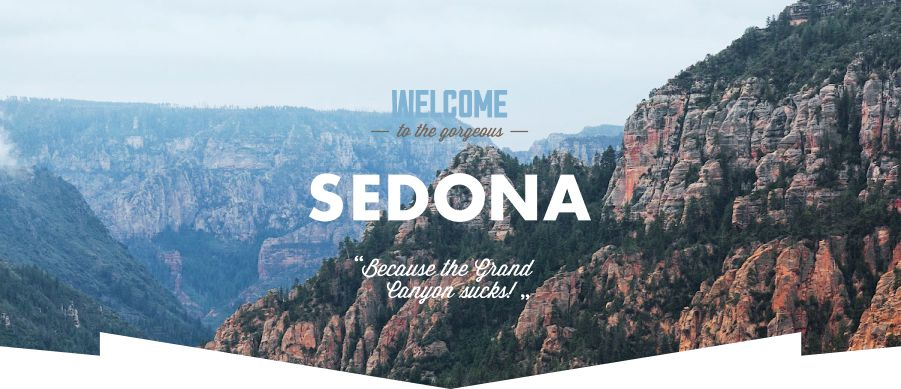
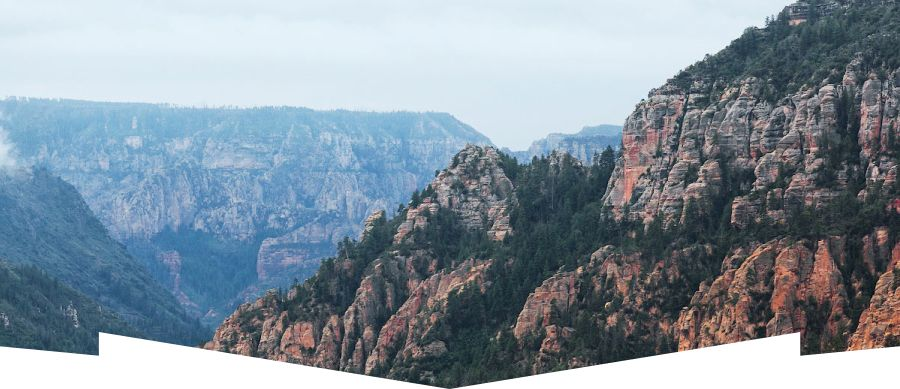
Правки

diff --git a/source/catalog.html b/source/catalog.html
@@ -10,6 +10,7 @@
   <link rel="apple-touch-icon" href="img/favicon/180.png">
   <link rel="manifest" href="manifest.webmanifest">
   <link rel="stylesheet" href="css/style.css">
+  <link rel="stylesheet" href="css/normalize.css">
 </head>
 
 <body class="page__body">
@@ -89,7 +90,7 @@
     <section class="video">
       <h2 class="video__title">Все еще сомневаетесь?</h2>
       <p class="video__intro">Смотрите видеопрезентацию и скорее за билетами, пока они не подорожали в очередной раз!</p>
-      <div>
+      <div class="video__section">
         <img class="video__video" src="img/video-presentation.jpg" width="320" height="201" alt="Кадр видеопрезентации с изображением горного моста">
         <div class="video__controls video-controls">
           <div class="video-controls__progress-line">
@@ -98,17 +99,17 @@
           <div class="video-controls__buttons">
             <button class="video-controls__button video-controls__button--replay" type="button">
               <span class="visually-hidden">Возпроизвести сначала</span>
-              <svg class="video-controls__icon" width="16" height="20" viewBox="0 0 16 20" xmlns="http://www.w3.org/2000/svg">
+              <svg class="video-controls__icon video-controls__icon--action" width="16" height="20" viewBox="0 0 16 20" xmlns="http://www.w3.org/2000/svg">
                 <path d="M8 4V0L3 5L8 10V6C11.3 6 14 8.7 14 12C14 15.3 11.3 18 8 18C4.7 18 2 15.3 2 12H0C0 16.4 3.6 20 8 20C12.4 20 16 16.4 16 12C16 7.6 12.4 4 8 4Z"/>
               </svg>
             </button>
             <button class="video-controls__button" type="button">
               <span class="visually-hidden">Субтитры</span>
-              <svg class="video-controls__icon" width="32" height="20" viewBox="0 0 32 20" xmlns="http://www.w3.org/2000/svg">
+              <svg class="video-controls__icon video-controls__icon--action" width="32" height="20" viewBox="0 0 32 20" xmlns="http://www.w3.org/2000/svg">
                 <path d="M29 0H3C1.3 0 0 1.3 0 3V17C0 18.7 1.3 20 3 20H29C30.7 20 32 18.7 32 17V3C32 1.3 30.7 0 29 0ZM14.4 15.9C13.9 16 13.3 16 12.7 16C12 16 11.3 15.9 10.7 15.7C10.1 15.5 9.5 15.1 9.1 14.7C8.7 14.3 8.3 13.6 8 12.8C7.7 12 7.6 11.1 7.6 10C7.6 8.9 7.8 7.9 8.1 7.1C8.4 6.3 8.8 5.7 9.3 5.2C9.8 4.7 10.4 4.4 11 4.2C11.5 4.1 12.2 4 12.8 4C13.5 4 14 4 14.5 4.1C15 4.2 15.3 4.3 15.6 4.4L15.2 6.3C14.9 6.2 14.6 6.1 14.3 6C13.9 6 13.5 6 13 6C12.1 6 11.4 6.3 10.8 7C10.2 7.7 10 8.7 10 10C10 10.6 10.1 11.1 10.2 11.6C10.3 12.1 10.5 12.5 10.8 12.9C11.1 13.2 11.4 13.5 11.8 13.7C12.2 13.9 12.7 14 13.2 14C13.7 14 14.1 14 14.5 13.9C14.8 13.8 15.1 13.7 15.4 13.5L15.9 15.3C15.4 15.6 14.9 15.7 14.4 15.9ZM23.1 15.9C22.6 16 22 16 21.4 16C20.7 16 20 15.9 19.4 15.7C18.8 15.5 18.2 15.1 17.8 14.7C17.3 14.2 16.9 13.6 16.7 12.8C16.4 12 16.3 11.1 16.3 10C16.3 8.9 16.5 7.9 16.8 7.1C17.1 6.3 17.5 5.7 18 5.2C18.5 4.7 19.1 4.4 19.7 4.2C20.2 4.1 20.9 4 21.5 4C22.2 4 22.7 4 23.2 4.1C23.7 4.2 24 4.3 24.3 4.4L23.9 6.3C23.6 6.2 23.3 6.1 23 6C22.6 6 22.2 6 21.7 6C20.8 6 20.1 6.3 19.5 7C18.9 7.7 18.7 8.7 18.7 10C18.7 10.6 18.8 11.1 18.9 11.6C19 12.1 19.2 12.5 19.5 12.9C19.8 13.2 20.1 13.5 20.5 13.7C20.9 13.9 21.4 14 21.9 14C22.4 14 22.8 14 23.2 13.9C23.5 13.8 23.8 13.7 24.1 13.5L24.6 15.3C24.1 15.6 23.6 15.7 23.1 15.9Z"/>
               </svg>
             </button>
-            <button class="video-controls__button" type="button">
+            <button class="video-controls__button video-controls__icon--action" type="button">
               <span class="visually-hidden">Полноэкранный вид</span>
               <svg class="video-controls__icon" width="20" height="20" viewBox="0 0 20 20" xmlns="http://www.w3.org/2000/svg">
                 <path d="M0 0V3V6H3V3H6V0H3H0Z"/>

diff --git a/source/sass/blocks/page-header.scss b/source/sass/blocks/page-header.scss
@@ -27,25 +27,36 @@
 .page-header__intro {
   width: 100%;
   height: 158px;
-  background-image: url("../img/intro-small.jpg");
+  background-image:
+    url("../img/text-small.svg"),
+    url("../img/intro-small.jpg");
   background-repeat: no-repeat;
-  background-position: center;
+  background-size: 261px, cover;
+  background-position: center, bottom;
 
   @media (min-width: 768px) {
     height: 296px;
-    background-image: url("../img/intro.jpg");
-    background-size: cover;
-    background-position: 50% 0;
+    background-image:
+      url("../img/text.svg"),
+      url("../img/intro.jpg");
+    background-size: 457px, cover;
+    background-position: center, bottom;
   }
 }
 
 .page-header__intro--index {
   height: 389px;
-  background-image: url("../img/intro-index-small.jpg");
+  background-image:
+    url("../img/text-index.svg"),
+    url("../img/intro-index-small.jpg");
+  background-size: 282px, cover;
+  background-position: center;
 
   @media (min-width: 768px) {
     height: 518px;
-    background-image: url("../img/intro-index.jpg");
-    background-size: cover;
+    background-image:
+      url("../img/text-index.svg"),
+      url("../img/intro-index.jpg");
+    background-size: 461px, cover;
   }
 }

diff --git a/source/sass/blocks/video-controls.scss b/source/sass/blocks/video-controls.scss
@@ -25,11 +25,14 @@
   background-image: url("../img/volume-control.svg");
   background-repeat: no-repeat;
   background-position: center;
+  box-sizing: border-box;
 
   @media (min-width: 768px) {
     height: 93px;
     width: 648px;
+    padding-left: 10%;
     background-image: url("../img/volume-control-tablet.svg");
+    background-position-x: 35%;
   }
 
   @media (min-width: 1200px) {
@@ -43,7 +46,7 @@
   box-sizing: border-box;
   width: 85%;
   height: 66px;
-  /*background-color: var(--beige);*/
+  background-color: var(--beige);
   display: flex;
   align-items: center;
   justify-content: space-between;
@@ -64,6 +67,7 @@
 
 .video-controls__button {
   border: none;
+  background: none;
 }
 
 .video-controls__button--replay {
@@ -85,10 +89,12 @@
     fill: var(--white);
 
     &:hover {
+      fill: var(--white);
       opacity: 0.6;
     }
 
     &:active {
+      fill: var(--white);
       opacity: 0.3;
     }
   }

diff --git a/source/sass/blocks/main-nav.scss b/source/sass/blocks/main-nav.scss
@@ -58,7 +58,7 @@
   margin: 0;
   position: absolute;
   width: 100%;
-  height: 223px;
+  min-height: 223px;
   z-index: 1;
 
   @media (min-width: 768px) {
@@ -66,7 +66,7 @@
     flex-direction: row;
     position: static;
     justify-content: space-between;
-    height: 56px;
+    min-height: 56px;
     box-sizing: border-box;
   }
 }

diff --git a/source/form.html b/source/form.html
@@ -10,6 +10,7 @@
   <link rel="apple-touch-icon" href="img/favicon/180.png">
   <link rel="manifest" href="manifest.webmanifest">
   <link rel="stylesheet" href="css/style.css">
+  <link rel="stylesheet" href="css/normalize.css">
 </head>
 
 <body class="page__body">

diff --git a/source/index.html b/source/index.html
@@ -10,6 +10,7 @@
   <link rel="apple-touch-icon" href="img/favicon/180.png">
   <link rel="manifest" href="manifest.webmanifest">
   <link rel="stylesheet" href="css/style.css">
+  <link rel="stylesheet" href="css/normalize.css">
 </head>
 
 <body class="page__body">
